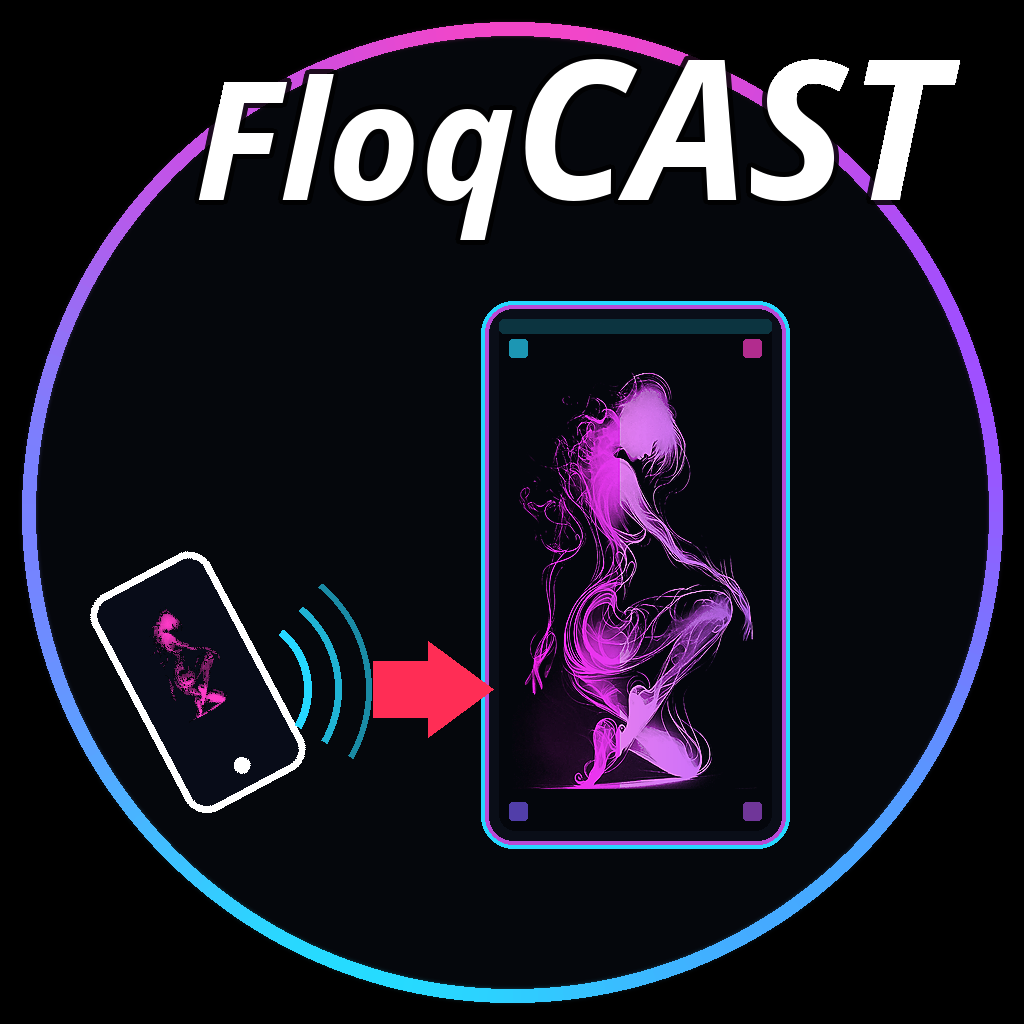
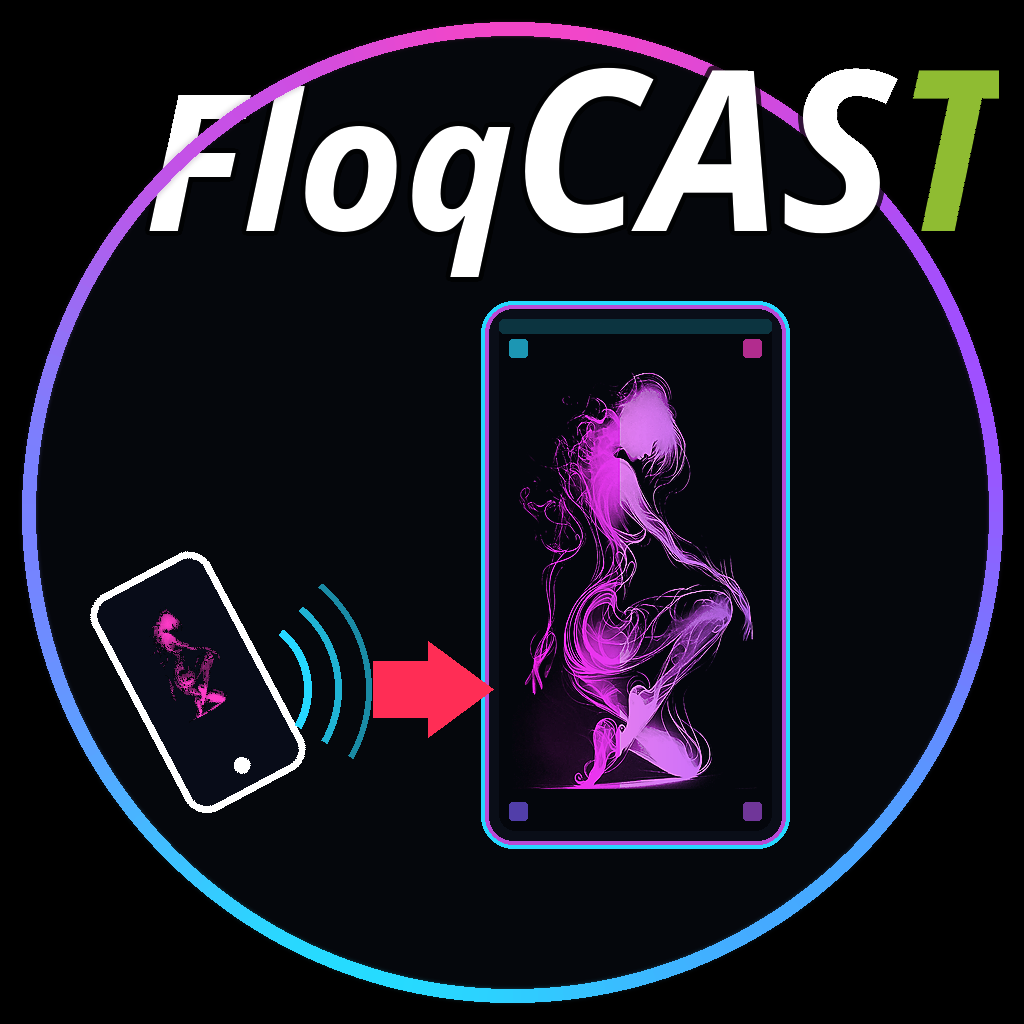
feat: FloqCAST V4 +15% type, green T, Fl under ring
Scale Floq/CAST +15% and drop clear of the LED. VIP-green T (#8FBC32).
Fl sits under the nightlife ring; oqCAST overlays it. Cache-bust ?v=4m.

Changed region(s): [[0.125, 0.0312, 1.0, 0.2812]]

diff --git a/icon-review-v4-chrome-compare.html b/icon-review-v4-chrome-compare.html
@@ -109,8 +109,9 @@
   <section class="block pick">
     <h2>Nightlife chrome — V4 candidate beside live packs</h2>
     <p>
-      FloqCAST V4: full opaque black square + nightlife ring.
-      Font = ShoutOut match <strong>Noto Sans Display Bold Italic</strong>; Floq +10% / CAST +30%; wordmark above the ring.
+      FloqCAST V4: black NL square + nightlife ring.
+      Font = <strong>Noto Sans Display Bold Italic</strong>; +15% type; green <strong>T</strong> (VIP <code>#8FBC32</code>);
+      <strong>Fl</strong> under ring, <strong>oqCAST</strong> over ring; clear of LED.
     </p>
     <div class="row">
       <figure class="hero">
